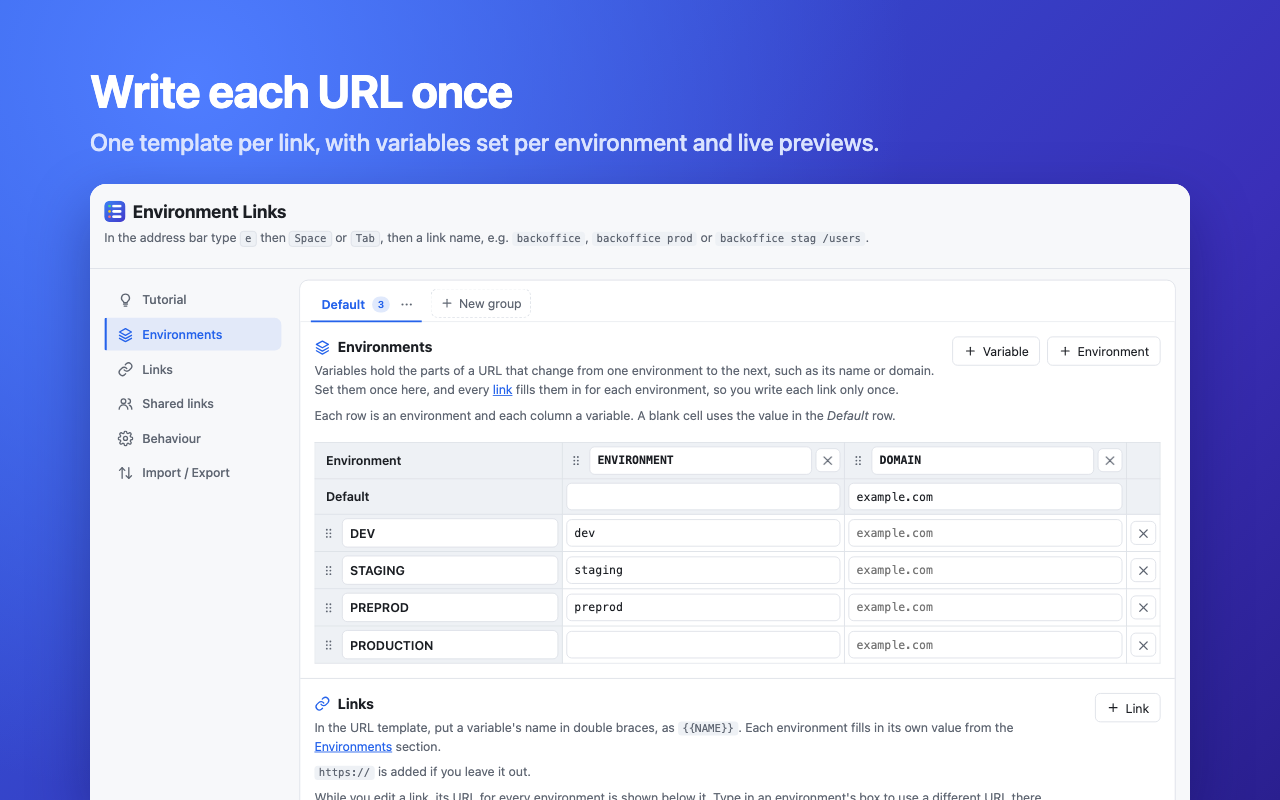
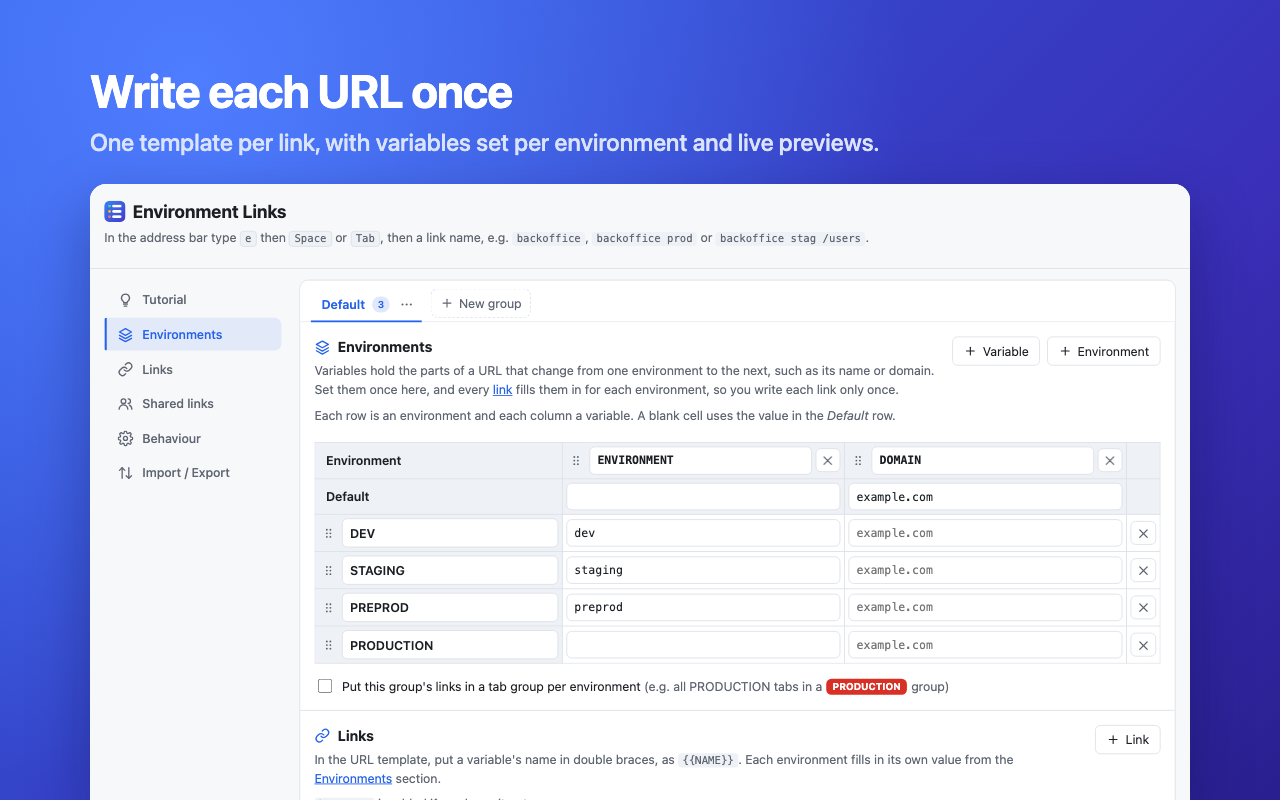
Release 1.7.0: tab groups per environment group, multi-word link search
- Tab groups are now a setting of each environment group, under its Environments grid
  instead of Behaviour. A saved "on" from before turns it on for every group, and Chrome's
  tabGroups permission is given back only once no group uses it.
- Tab group titles put the environment first: "LIVE · Payments".
- Search: several words can match parts of one link name ("api doc" finds api-docs),
  links matching more of the words come first, and a leftover word has to name one of
  the link's environments.
- Fix: the tab groups tickbox and the group tab strip shared the id "group-tabs".

Changed region(s): [[0.25, 0.8438, 0.8125, 1.0], [0.875, 0.875, 0.9062, 0.9375]]

diff --git a/src/core.js b/src/core.js
@@ -4,7 +4,6 @@
 // New installs start empty; the settings page walks the user through setting up.
 export const DEFAULT_CONFIG = {
   openIn: "currentTab", // currentTab | newForegroundTab | newBackgroundTab
-  groupTabs: false, // put opened links in a tab group per environment
   groups: [],
 };
 
@@ -26,7 +25,10 @@ const VAR_RE = /\{\{\s*([A-Za-z_][A-Za-z0-9_]*)\s*\}\}/g;
  */
 export function normalizeConfig(raw) {
   const cfg = raw && typeof raw === "object" ? raw : {};
-  const rawGroups = Array.isArray(cfg.groups) ? cfg.groups : [{ ...DEFAULT_GROUP, ...cfg }];
+  // Tab groups used to be one setting for everything; a config from then turns it on for every group.
+  const legacyGroupTabs = cfg.groupTabs === true;
+  const rawGroups = (Array.isArray(cfg.groups) ? cfg.groups : [{ ...DEFAULT_GROUP, ...cfg }])
+    .map((g) => (legacyGroupTabs && g && typeof g === "object" && !("groupTabs" in g) ? { ...g, groupTabs: true } : g));
   const groups = [];
   rawGroups.forEach((g, i) => {
     const group = normalizeGroup(g, i);
@@ -36,7 +38,6 @@ export function normalizeConfig(raw) {
   if (!groups.length) groups.push(normalizeGroup(DEFAULT_GROUP));
   return {
     openIn: cfg.openIn || DEFAULT_CONFIG.openIn,
-    groupTabs: cfg.groupTabs === true,
     groups,
     sources: (cfg.sources || []).map(normalizeSource).filter((src) => src.repo),
   };
@@ -93,6 +94,7 @@ export function normalizeGroup(raw, index = 0) {
   return {
     id: String(cfg.id || slug(name) || `group${index + 1}`),
     name,
+    groupTabs: cfg.groupTabs === true, // put this group's links in a Chrome tab group per environment
     variableNames,
     globals,
     environments,
@@ -309,9 +311,9 @@ export function environmentForUrl(config, url) {
   return best ? { env: best.env, group: best.group } : null;
 }
 
-/** A tab group's title: the environment's name, after its group's when there are several ("PAM · DEV"). */
+/** A tab group's title: the environment's name, then its group's when there are several ("DEV · PAM"). */
 export function tabGroupTitle(config, group, env) {
-  return config.groups.length > 1 && group ? `${group.name} · ${env.name}` : env.name;
+  return config.groups.length > 1 && group ? `${env.name} · ${group.name}` : env.name;
 }
 
 /**
@@ -498,33 +500,63 @@ function score(key, term) {
 /**
  * Ordered list of { env, link, group, url, missing } results for omnibox text, from every group.
  *
- * Words can come in any order. Link names come first: the first word that matches a link's name
- * picks the links, and the others narrow them by environment, or by group when one starts a group's
- * name. Environments are the second priority: with no word matching a link ("prod"), every link is
- * listed for the matching environments, and a single word that matches both ("dev") lists the links
- * it names first, then every link in the environments it names.
+ * Words can come in any order. Link names come first: every word found in a link's name counts
+ * towards it, so "api doc" finds "api-docs", and the words left over narrow its environments, or
+ * its group when one starts a group's name. Links that match more of the words, and match them
+ * better, are listed first. Environments are the second priority: with no word in any link's name
+ * ("prod"), every link is listed for the matching environments, and a single word that matches
+ * both ("dev") lists the links it names first, then every link in the environments it names.
  */
 export function search(text, config) {
   const { term, envFilters, path } = parseQuery(text);
-  const words = [term, ...envFilters].filter(Boolean);
-  const linkWord = words.find((w) => config.groups.some((g) => g.links.some((l) => l.key && score(l.key, w) !== null)));
-  const filters = words.filter((w, i) => i !== words.indexOf(linkWord));
-  const results = matchLinks(linkWord ?? "", filters, path, config);
-  if (words.length !== 1 || !linkWord) return results;
+  const words = [...new Set([term, ...envFilters].filter(Boolean))];
+  const named = config.groups
+    .flatMap((group, order) => group.links.filter((l) => l.key).map((link) => {
+      const inName = words.filter((w) => score(link.key, w) !== null);
+      return {
+        link, group, order, inName,
+        rest: words.filter((w) => !inName.includes(w)),
+        s: inName.reduce((total, w) => total + score(link.key, w), 0),
+      };
+    }))
+    .filter((c) => c.inName.length)
+    .sort((a, b) => b.inName.length - a.inName.length || a.s - b.s || a.link.key.localeCompare(b.link.key) || a.order - b.order);
+  if (!named.length) return matchLinks("", words, path, config); // only environments or groups named
+
+  const results = named.flatMap((c) => linkResults(c.link, c.group, c.rest, path, config));
+  if (words.length !== 1) return results;
 
   // One word that names links: environments it names come second, without repeating a result.
   const seen = new Set(results.map((r) => `${r.group.id}\u0000${r.link.key}\u0000${r.env.id}`));
-  return [...results, ...matchLinks("", [linkWord], path, config)
+  return [...results, ...matchLinks("", words, path, config)
     .filter((r) => !seen.has(`${r.group.id}\u0000${r.link.key}\u0000${r.env.id}`))];
+}
+
+const groupNames = (g) => [g.name.toLowerCase(), g.id.toLowerCase()];
+
+/** Split filter words into those naming a group (with several groups) and those naming environments. */
+function splitFilters(filters, config) {
+  const groupWords = config.groups.length > 1
+    ? filters.filter((f) => config.groups.some((g) => startsAny(groupNames(g), [f])))
+    : [];
+  return { groupWords, envWords: filters.filter((f) => !groupWords.includes(f)) };
+}
+
+/** One link's results in the environments (and group) the filter words pick. */
+function linkResults(link, group, filters, path, config) {
+  const { groupWords, envWords } = splitFilters(filters, config);
+  if (groupWords.length && !startsAny(groupNames(group), groupWords)) return [];
+  // Every leftover word has to name one of its environments: "doc" in "doc api" isn't about "api".
+  if (!envWords.every((w) => group.environments.some((e) => envStartsWith(e, w)))) return [];
+  const envMatches = envFilter(envWords, group.environments);
+  return expandLink(link, group)
+    .filter((r) => envMatches(r.env))
+    .map((r) => ({ ...r, url: appendPath(r.url, path) }));
 }
 
 /** Links whose name matches term (all of them for ""), in the environments and groups filters pick. */
 function matchLinks(term, filters, path, config) {
-  const groupNames = (g) => [g.name.toLowerCase(), g.id.toLowerCase()];
-  const groupFilters = config.groups.length > 1
-    ? filters.filter((f) => config.groups.some((g) => startsAny(groupNames(g), [f])))
-    : [];
-  const envFilters = filters.filter((f) => !groupFilters.includes(f));
+  const { groupWords: groupFilters, envWords: envFilters } = splitFilters(filters, config);
   const groups = groupFilters.length ? config.groups.filter((g) => startsAny(groupNames(g), groupFilters)) : config.groups;
 
   const links = groups

diff --git a/test/core.test.js b/test/core.test.js
@@ -191,8 +191,12 @@ test("finds the environment of a URL, including one with a path added", () => {
   assert.equal(environmentForUrl(config, "https://backoffice.example.com/players/1").env.id, "production");
   assert.equal(environmentForUrl(config, "https://backoffice.example.com.evil.io"), null);
   assert.equal(environmentForUrl(config, "https://elsewhere.io"), null);
-  assert.equal(normalizeConfig({}).groupTabs, false);
-  assert.equal(normalizeConfig({ groupTabs: true }).groupTabs, true);
+  assert.equal(normalizeConfig({}).groups[0].groupTabs, false);
+  // The setting is per group now; the old global one turns it on for every group that doesn't say.
+  assert.equal(normalizeConfig({ groupTabs: true }).groups[0].groupTabs, true);
+  const both = normalizeConfig({ groupTabs: true, groups: [{ name: "A" }, { name: "B", groupTabs: false }] });
+  assert.deepEqual(both.groups.map((g) => g.groupTabs), [true, false]);
+  assert.equal("groupTabs" in both, false);
 });
 
 // ---- Environment groups -------------------------------------------------------------------
@@ -238,7 +242,7 @@ test("typing a group's name narrows to that group, alongside environment filters
 test("the group shows in suggestions and tab group titles when there are several", () => {
   const [result] = search("wallet qa", GROUPS);
   assert.match(describe(result, false, true), /^<dim>Payments<\/dim> <match>QA<\/match>/);
-  assert.equal(tabGroupTitle(GROUPS, result.group, result.env), "Payments · QA");
+  assert.equal(tabGroupTitle(GROUPS, result.group, result.env), "QA · Payments");
   assert.equal(tabGroupTitle(config, config.groups[0], config.groups[0].environments[0]), "DEV");
   assert.equal(environmentForUrl(GROUPS, "https://wallet.live.pay.com/x").group.id, "payments");
 });
@@ -379,4 +383,22 @@ test("a link name and an environment narrow to that link there, however the envi
   assert.deepEqual(found("backoffice prod", ["Dev", "Pre-Prod", "Prod"]), ["backoffice@Prod"]);
   // Without one, the start of any word: "prod" finds PRODUCTION but not PREPROD.
   assert.deepEqual(found("backoffice prod", ["DEV", "PREPROD", "PRODUCTION"]), ["backoffice@PRODUCTION"]);
+});
+
+test("several words can match one link name, and the rest narrow it", () => {
+  const cfg = normalizeConfig({ ...EXAMPLE, links: [
+    { key: "api", template: "api.{{DOMAIN}}" },
+    { key: "api-docs", template: "docs.{{DOMAIN}}" },
+    { key: "Back Office", template: "bo.{{DOMAIN}}" },
+  ] });
+  const found = (q) => search(q, cfg).map((r) => `${r.link.key}@${r.env.name}`);
+  assert.deepEqual(found("api doc"), ["api-docs@DEV", "api-docs@STAGING", "api-docs@PREPROD", "api-docs@PRODUCTION"]);
+  assert.deepEqual(found("doc api prod"), ["api-docs@PRODUCTION"]);
+  assert.deepEqual(found("back off stag"), ["Back Office@STAGING"]);
+  assert.deepEqual(found("office back"), found("back office"));
+  // "api" alone: the exact name first, then the one it starts.
+  assert.deepEqual([...new Set(found("api").map((r) => r.split("@")[0]))], ["api", "api-docs"]);
+  // The link matching more of the words comes first.
+  assert.equal(found("api docs")[0], "api-docs@DEV");
+  assert.deepEqual(found("api nope"), []); // "nope" is in no name and names no environment
 });

diff --git a/src/options.js b/src/options.js
@@ -1584,9 +1584,10 @@ $("#add-link").addEventListener("click", () => {
 
 $("#open-in").addEventListener("change", (e) => { settings.openIn = e.target.value; scheduleSave(); });
 
-// Grouping tabs needs the optional "tabGroups" permission, asked for when it's turned on (Chrome
-// only shows the prompt during a click, so the request comes first) and given back when it's off.
-// There are two tickboxes for this setting, under Behaviour and in the tutorial; they stay in step.
+// Grouping tabs is a setting of each environment group. It needs the optional "tabGroups"
+// permission, asked for when it's turned on (Chrome only shows the prompt during a click, so the
+// request comes first) and given back once no group uses it. There are two tickboxes for the group
+// being edited, under Environments and in the tutorial; they stay in step.
 const groupTabBoxes = () => document.querySelectorAll(".group-tabs-input");
 const tickGroupTabs = (on) => groupTabBoxes().forEach((box) => (box.checked = on));
 groupTabBoxes().forEach((box) => box.addEventListener("change", async (e) => {
@@ -1597,12 +1598,14 @@ groupTabBoxes().forEach((box) => box.addEventListener("change", async (e) => {
       tickGroupTabs(false);
       return setStatus("Tab groups need Chrome's permission to manage tab groups.", "err");
     }
-    settings.groupTabs = true;
+    config.groupTabs = true;
     await saveNow(); // save first, so "Saved" doesn't replace the message below
-    setStatus("New links will open in a tab group per environment", "ok");
+    setStatus(settings.groups.length > 1
+      ? `${config.name}'s links will open in a tab group per environment`
+      : "New links will open in a tab group per environment", "ok");
   } else {
-    settings.groupTabs = false;
-    chrome.permissions.remove(GROUP_PERMISSION).catch(() => {});
+    config.groupTabs = false;
+    if (!settings.groups.some((g) => g.groupTabs)) chrome.permissions.remove(GROUP_PERMISSION).catch(() => {});
     await saveNow();
   }
 }));
@@ -1610,7 +1613,7 @@ groupTabBoxes().forEach((box) => box.addEventListener("change", async (e) => {
 /** Ticked only when the setting is on and Chrome still has the permission. */
 async function showGroupTabs() {
   const granted = await chrome.permissions.contains(GROUP_PERMISSION).catch(() => false);
-  tickGroupTabs(settings.groupTabs && granted);
+  tickGroupTabs(config.groupTabs && granted);
 }
 
 $("#export").addEventListener("click", () => {

diff --git a/test/open.test.js b/test/open.test.js
@@ -29,7 +29,8 @@ const { openLink } = await import("../src/open.js");
 
 const env = (id, name) => ({ id, name });
 const group = { id: "default", name: "Default", environments: [env("dev", "DEV"), env("production", "PRODUCTION")] };
-const config = { groupTabs: true, groups: [group] };
+group.groupTabs = true;
+const config = { groups: [group] };
 
 beforeEach(() => {
   tabs = [{ id: 1, url: "about:blank", active: true, windowId: 1, groupId: -1 }];
@@ -61,7 +62,7 @@ test("the current tab is updated in place and moved into the group", async () =>
 });
 
 test("no grouping when the setting is off, the permission is missing, or the environment is unknown", async () => {
-  await openLink("https://x", "newForegroundTab", env("dev", "DEV"), { ...config, groupTabs: false }, group);
+  await openLink("https://x", "newForegroundTab", env("dev", "DEV"), config, { ...group, groupTabs: false });
   granted = false;
   await openLink("https://y", "newForegroundTab", env("dev", "DEV"), config, group);
   granted = true;
@@ -71,7 +72,7 @@ test("no grouping when the setting is off, the permission is missing, or the env
 });
 
 test("with several environment groups, the tab group is named after both", async () => {
-  const pay = { id: "pay", name: "Payments", environments: [env("qa", "QA")] };
-  await openLink("https://qa.pay", "newForegroundTab", env("qa", "QA"), { groupTabs: true, groups: [group, pay] }, pay);
-  assert.deepEqual(groups.map((g) => `${g.title}:${g.color}`), ["Payments · QA:purple"]);
+  const pay = { id: "pay", name: "Payments", groupTabs: true, environments: [env("qa", "QA")] };
+  await openLink("https://qa.pay", "newForegroundTab", env("qa", "QA"), { groups: [group, pay] }, pay);
+  assert.deepEqual(groups.map((g) => `${g.title}:${g.color}`), ["QA · Payments:purple"]);
 });

diff --git a/src/options.html b/src/options.html
@@ -185,6 +185,11 @@
         </div>
       </div>
       <div class="table-wrap"><table id="vars" class="grid"></table></div>
+      <label class="inline toggle-setting">
+        <input id="group-tabs-setting" class="group-tabs-input" type="checkbox">
+        <span>Put this group's links in a tab group per environment
+          <span class="muted">(e.g. all PRODUCTION tabs in a <span class="mg-group g-prd group-chip">PRODUCTION</span> group)</span></span>
+      </label>
     </section>
 
     <section id="links-section">
@@ -246,11 +251,6 @@
           <button id="change-shortcut" type="button">Change shortcut</button>
         </div>
       </div>
-      <label class="inline toggle-setting">
-        <input id="group-tabs" class="group-tabs-input" type="checkbox">
-        <span>Put links in a tab group per environment
-          <span class="muted">(e.g. all PRODUCTION tabs in a <span class="mg-group g-prd group-chip">PRODUCTION</span> group)</span></span>
-      </label>
       <label class="inline">Pressing Enter opens the link in
         <select id="open-in">
           <option value="currentTab">the current tab</option>

diff --git a/src/options.css b/src/options.css
@@ -513,6 +513,7 @@ button:has(> .btn-icon) { display: inline-flex; align-items: center; gap: 6px; }
 .source-heading a { color: var(--accent); }
 .toggle-setting { margin: 0 0 10px; }
 .toggle-setting input { width: 16px; height: 16px; flex: none; }
+#vars-section > .toggle-setting { margin: 14px 0 0; } /* under the grid, for the group being edited */
 
 /* A setting's tickbox on a tutorial slide */
 .slide-toggle {

diff --git a/src/open.js b/src/open.js
@@ -19,7 +19,7 @@ export async function openLink(url, target, env, config, group) {
   } else {
     tab = await chrome.tabs.create({ url, active: target === "newForegroundTab" });
   }
-  if (config.groupTabs && env && tab) {
+  if (group?.groupTabs && env && tab) { // a setting of each environment group
     try {
       await groupTab(tab, env, config, group);
     } catch (err) {

diff --git a/README.md b/README.md
@@ -54,8 +54,9 @@ Chrome only hands address-bar input to an extension after its keyword, so type t
 | `back`                           | every link whose name contains `back`     |
 | `prod`                           | every link, in environments starting with `prod` |
 | `stag backoffice`                | the same as `backoffice stag`             |
+| `api doc prod`                   | the `api-docs` link in PRODUCTION         |
 
-Words can come in any order. Link names come first; a word that isn't a link's name narrows the list by environment (or by group). A single word that names both a link and an environment, such as `dev` with a `devtools` link, lists the `devtools` link first and then every link in DEV.
+Words can come in any order. Link names come first, and several words can match parts of one name, so `api doc` finds `api-docs` or `API Docs`; links that match more of the words are listed first. A word that isn't part of a link's name narrows the list by environment (or by group), ignoring case, spaces and dashes, so `preprod` also finds `Pre-Prod` and `EU PREPROD`. A single word that names both a link and an environment, such as `dev` with a `devtools` link, lists the `devtools` link first and then every link in DEV.
 
 `Enter` opens the top suggestion; arrow down to pick another. `Alt+Enter` opens it in a new tab.
 
@@ -65,7 +66,7 @@ Click the extension's toolbar icon, or press `Ctrl+Shift+E` (`⌘⇧E` on a Mac)
 
 To use a different shortcut, click **Change shortcut** under Behaviour in settings, or go to `chrome://extensions/shortcuts`. If another extension already uses `Ctrl+Shift+E`, Chrome leaves this one unset until you choose a key there.
 
-Turn on **Put links in a tab group per environment** under Behaviour to keep each environment's tabs together: every link you open joins a tab group named after its environment (DEV, PRODUCTION…), coloured to match (production red, staging yellow, dev green). Chrome asks for permission to manage tab groups when you turn it on.
+Turn on **Put this group's links in a tab group per environment** under Environments to keep each environment's tabs together: every link you open from that group joins a tab group named after its environment (DEV, PRODUCTION…), coloured to match (production red, staging yellow, dev green). It's a setting of each environment group, so you can have it for one product and not another. Chrome asks for permission to manage tab groups the first time you turn it on.
 
 A plain click follows the "open in" setting, `Cmd`/`Ctrl`-click or middle-click opens a background tab, and `Shift`-click a new tab. **Settings** at the bottom of the list opens the settings page.
 
@@ -81,7 +82,7 @@ Then click reload on the extension in `chrome://extensions`.
 
 ## Configure
 
-- **Environment groups**: Environments, Links and Shared links sit under a row of tabs, one per group, and show the group whose tab is picked. Add a group with **New group**, rename or delete one from its tab's ⋯ menu, and drag the tabs to reorder them (or press Alt+←/→ on a tab, or use Move left/right in the menu). Search results list groups in this order. For example, one group could be `PAM` with DEV, STAGING and PRODUCTION, and another `Payments` with QA, UAT and LIVE. The address bar and toolbar list search every group and label results with the group's name; typing a group's name narrows them to it (`e backoffice payments live`). With tab groups on, tabs are grouped as "Payments · LIVE". With only one group, none of this shows. Behaviour and Import / Export cover every group.
+- **Environment groups**: Environments, Links and Shared links sit under a row of tabs, one per group, and show the group whose tab is picked. Add a group with **New group**, rename or delete one from its tab's ⋯ menu, and drag the tabs to reorder them (or press Alt+←/→ on a tab, or use Move left/right in the menu). Search results list groups in this order. For example, one group could be `PAM` with DEV, STAGING and PRODUCTION, and another `Payments` with QA, UAT and LIVE. The address bar and toolbar list search every group and label results with the group's name; typing a group's name narrows them to it (`e backoffice payments live`). With tab groups on, tabs are grouped as "LIVE · Payments". With only one group, none of this shows. Behaviour and Import / Export cover every group.
 - **Environments**: a grid with one row per environment and one column per variable, so it grows downwards as you add environments. The **Default** row applies to any environment that leaves its cell blank, so `DOMAIN` only has to be set once. Drag the ⋮⋮ handle on a row or column to reorder environments or variables, or focus the handle and use the arrow keys.
 - **Links**: a name (what you type) and a template such as `backoffice.{{ENVIRONMENT}}.{{DOMAIN}}`. `https://` is added when no scheme is given. Expand a link to preview each environment's URL and to override it for one environment, e.g. production as `backoffice.{{DOMAIN}}`. If a link doesn't exist in an environment, untick **Applicable** on that environment's row and it's left out of the address bar, toolbar list and tab groups for that link. In a shared file this is `"excluded": ["production"]` on the link.
 - **Basic auth**: put a user and password before the host, as in `{{USER}}:{{PASS}}@grafana.{{DOMAIN}}`, and Chrome signs in with them when it opens the link. Values filled in there are encoded, so a password with `@`, `:` or `#` still works. Passwords are hidden as `••••` in previews, the toolbar list and address-bar suggestions, and a variable named like `PASS`, `SECRET`, `TOKEN` or `API_KEY` shows as dots in the grid until you edit it. They're stored like the rest of your settings: synced through your Chrome profile and included in exports, so prefer a read-only or low-privilege account.

diff --git a/store/PRIVACY-PRACTICES.md b/store/PRIVACY-PRACTICES.md
@@ -26,9 +26,9 @@ This is an optional host permission. Chrome asks the user for it the first time 
 
 ### tabGroups (optional)
 
-This is an optional permission. Chrome asks the user for it only when they turn on "Put links in a tab group per environment" in the settings, and it's given back when they turn the option off.
+This is an optional permission. Chrome asks the user for it only when they turn on "Put this group's links in a tab group per environment" in the settings, and it's given back when they turn the option off for every group.
 
-> When the user turns on the optional "Put links in a tab group per environment" setting, the extension puts each link it opens into a tab group named after that environment (for example PRODUCTION) in the current window, creating and colouring the group the first time. It only reads the names of the tab groups in that window, to find the right one. It doesn't read the pages, titles or addresses of other tabs, and nothing is sent anywhere.
+> When the user turns on the optional "Put this group's links in a tab group per environment" setting, the extension puts each link it opens into a tab group named after that environment (for example PRODUCTION) in the current window, creating and colouring the group the first time. It only reads the names of the tab groups in that window, to find the right one. It doesn't read the pages, titles or addresses of other tabs, and nothing is sent anywhere.
 
 ## Are you using remote code?
 

diff --git a/CONTRIBUTING.md b/CONTRIBUTING.md
@@ -40,7 +40,7 @@ npm test
 - **The toolbar list's keyboard shortcut** is the `_execute_action` command in `manifest.json`. Its `suggested_key` only applies when nothing else has claimed the key. Users change it at `chrome://extensions/shortcuts`, and extensions can't set it; the settings page reads it with `chrome.commands.getAll()` and links there.
 - **Address-bar suggestion text** is XML. Always pass user text through `escapeXml` (`describe()` does this).
 - **Opening tabs** with `chrome.tabs.update/create` doesn't need the `tabs` permission. Don't add it.
-- **Tab groups** use the *optional* `tabGroups` permission, requested when the setting is turned on and removed when it's turned off. `src/open.js` opens a link and groups its tab; the address bar and popup both use it.
+- **Tab groups** are a setting of each environment group (`group.groupTabs`). They use the *optional* `tabGroups` permission, requested when a group turns the setting on and removed once no group has it on. `src/open.js` opens a link and groups its tab; the address bar and popup both use it.
 - **GitHub access** is an *optional* host permission (`api.github.com`). `chrome.permissions.request()` only shows its prompt during a click, so call it before any `await` in the handler.
 
 ## Before you open a pull request
